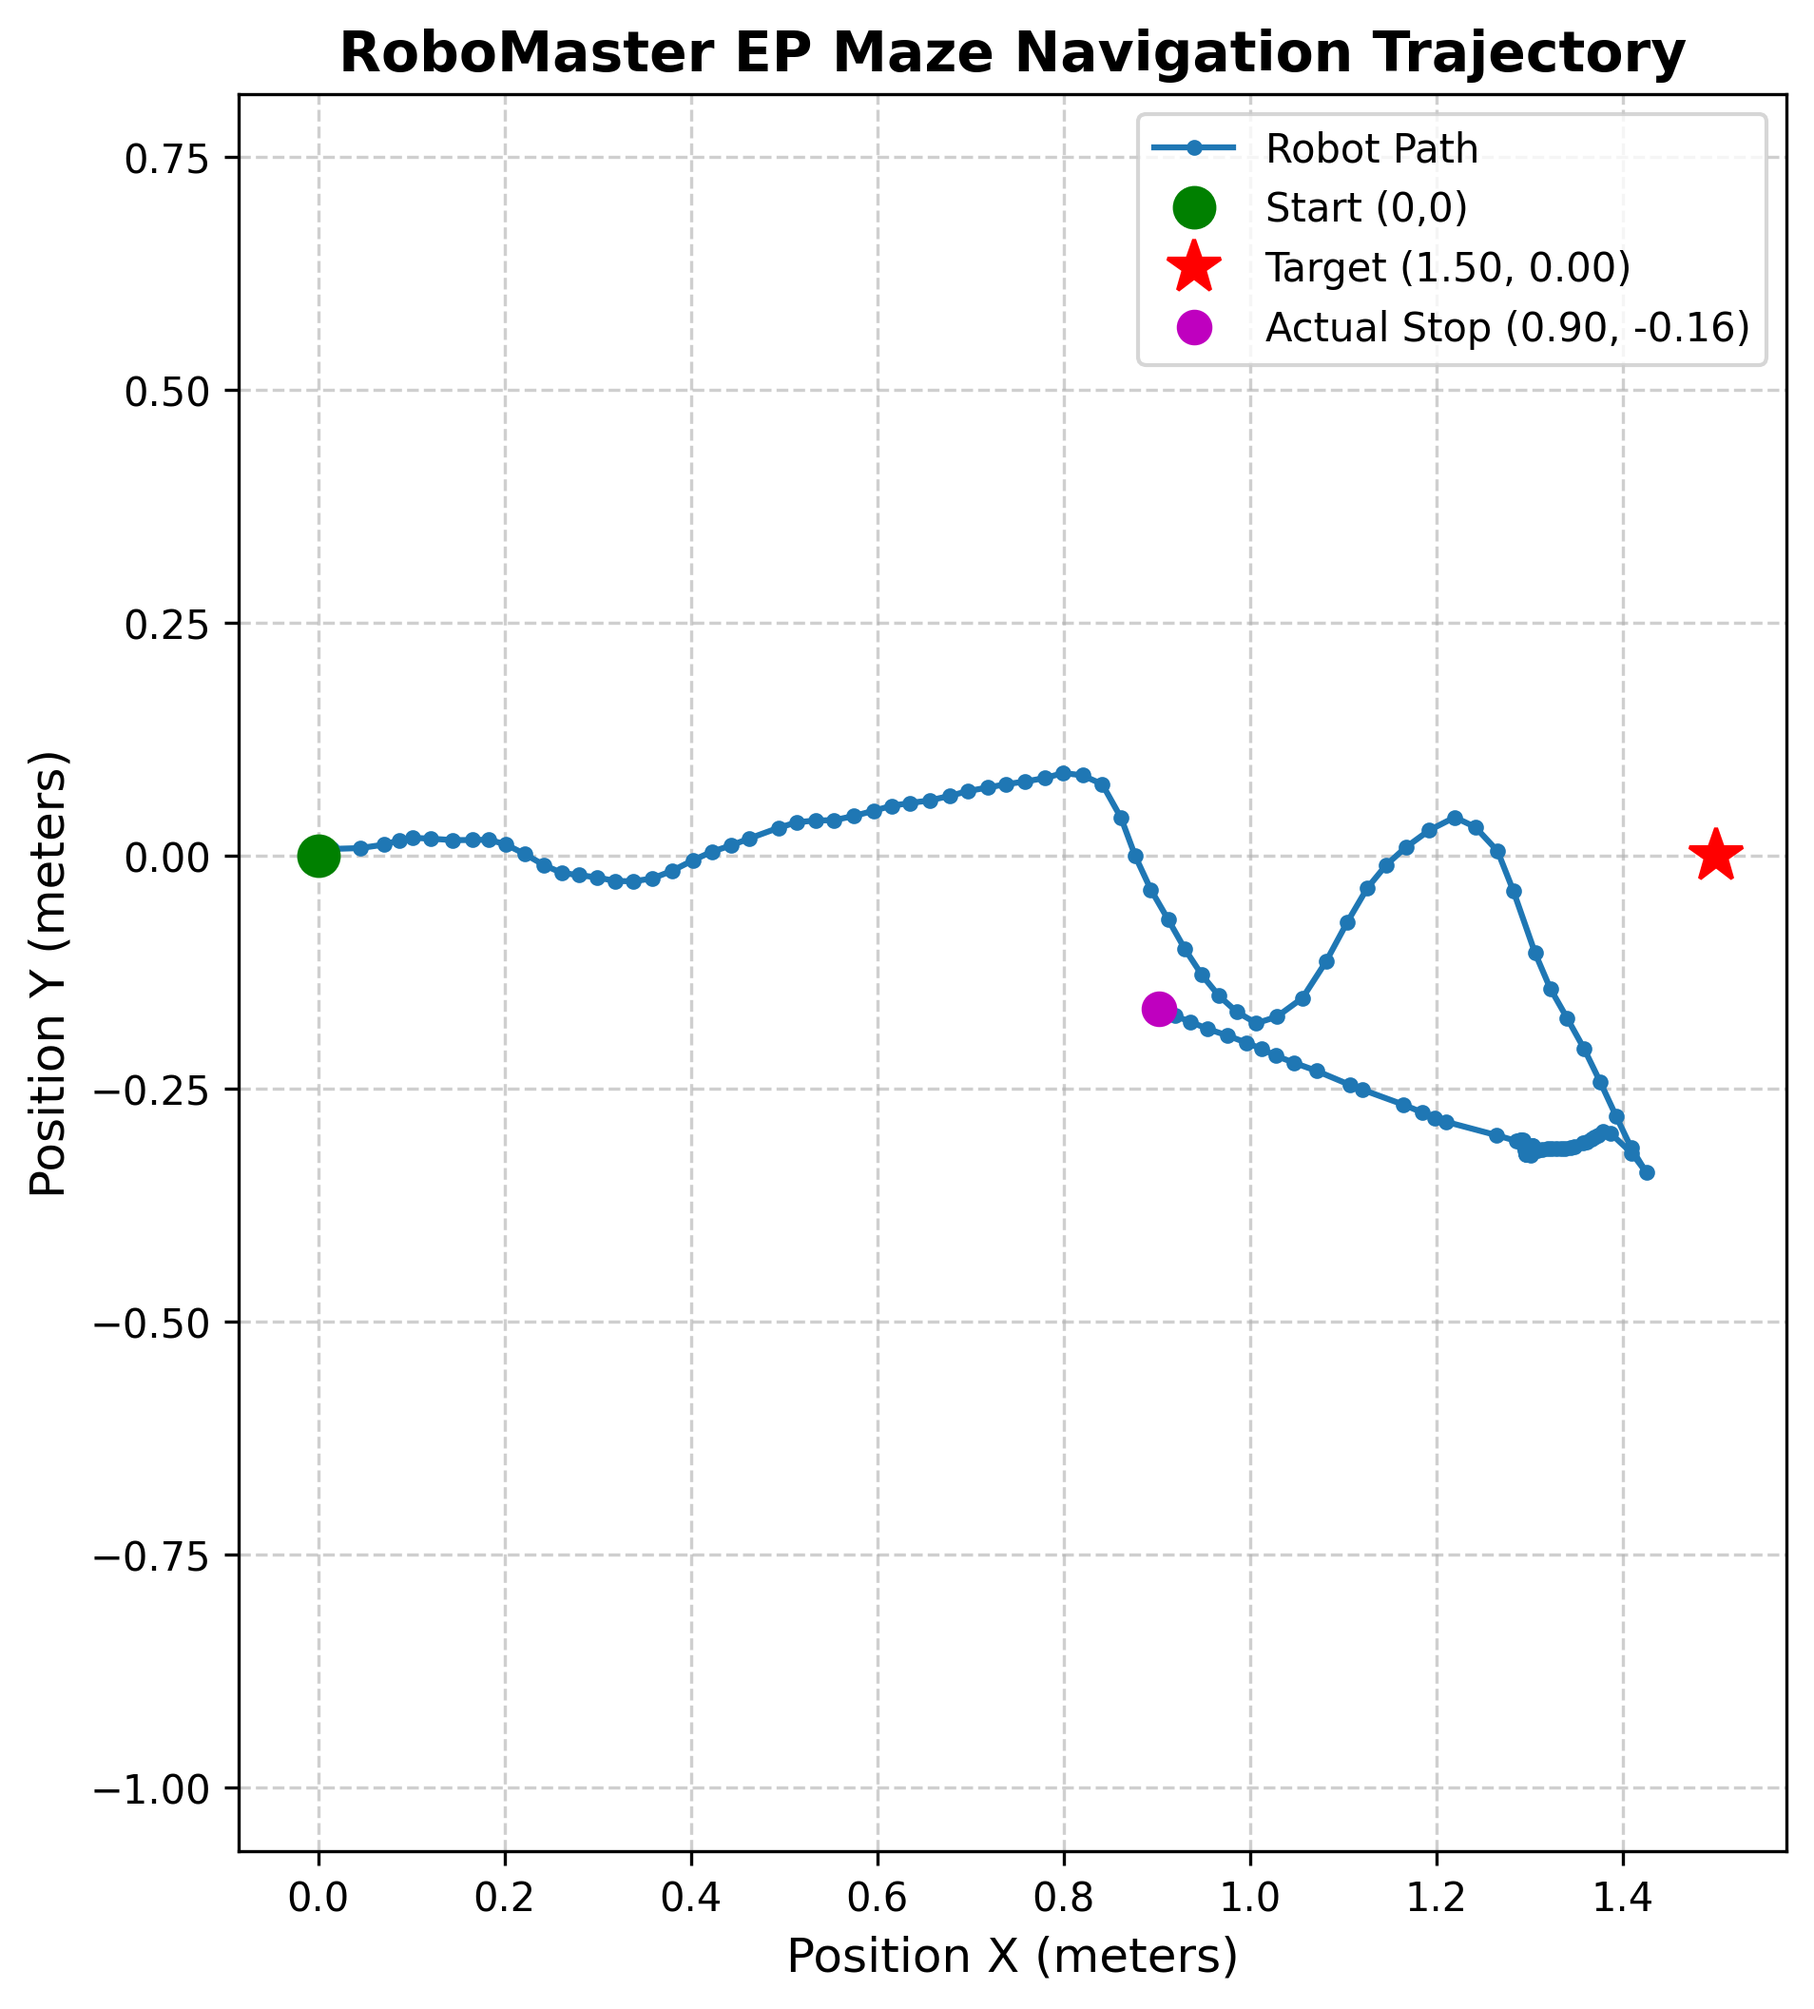
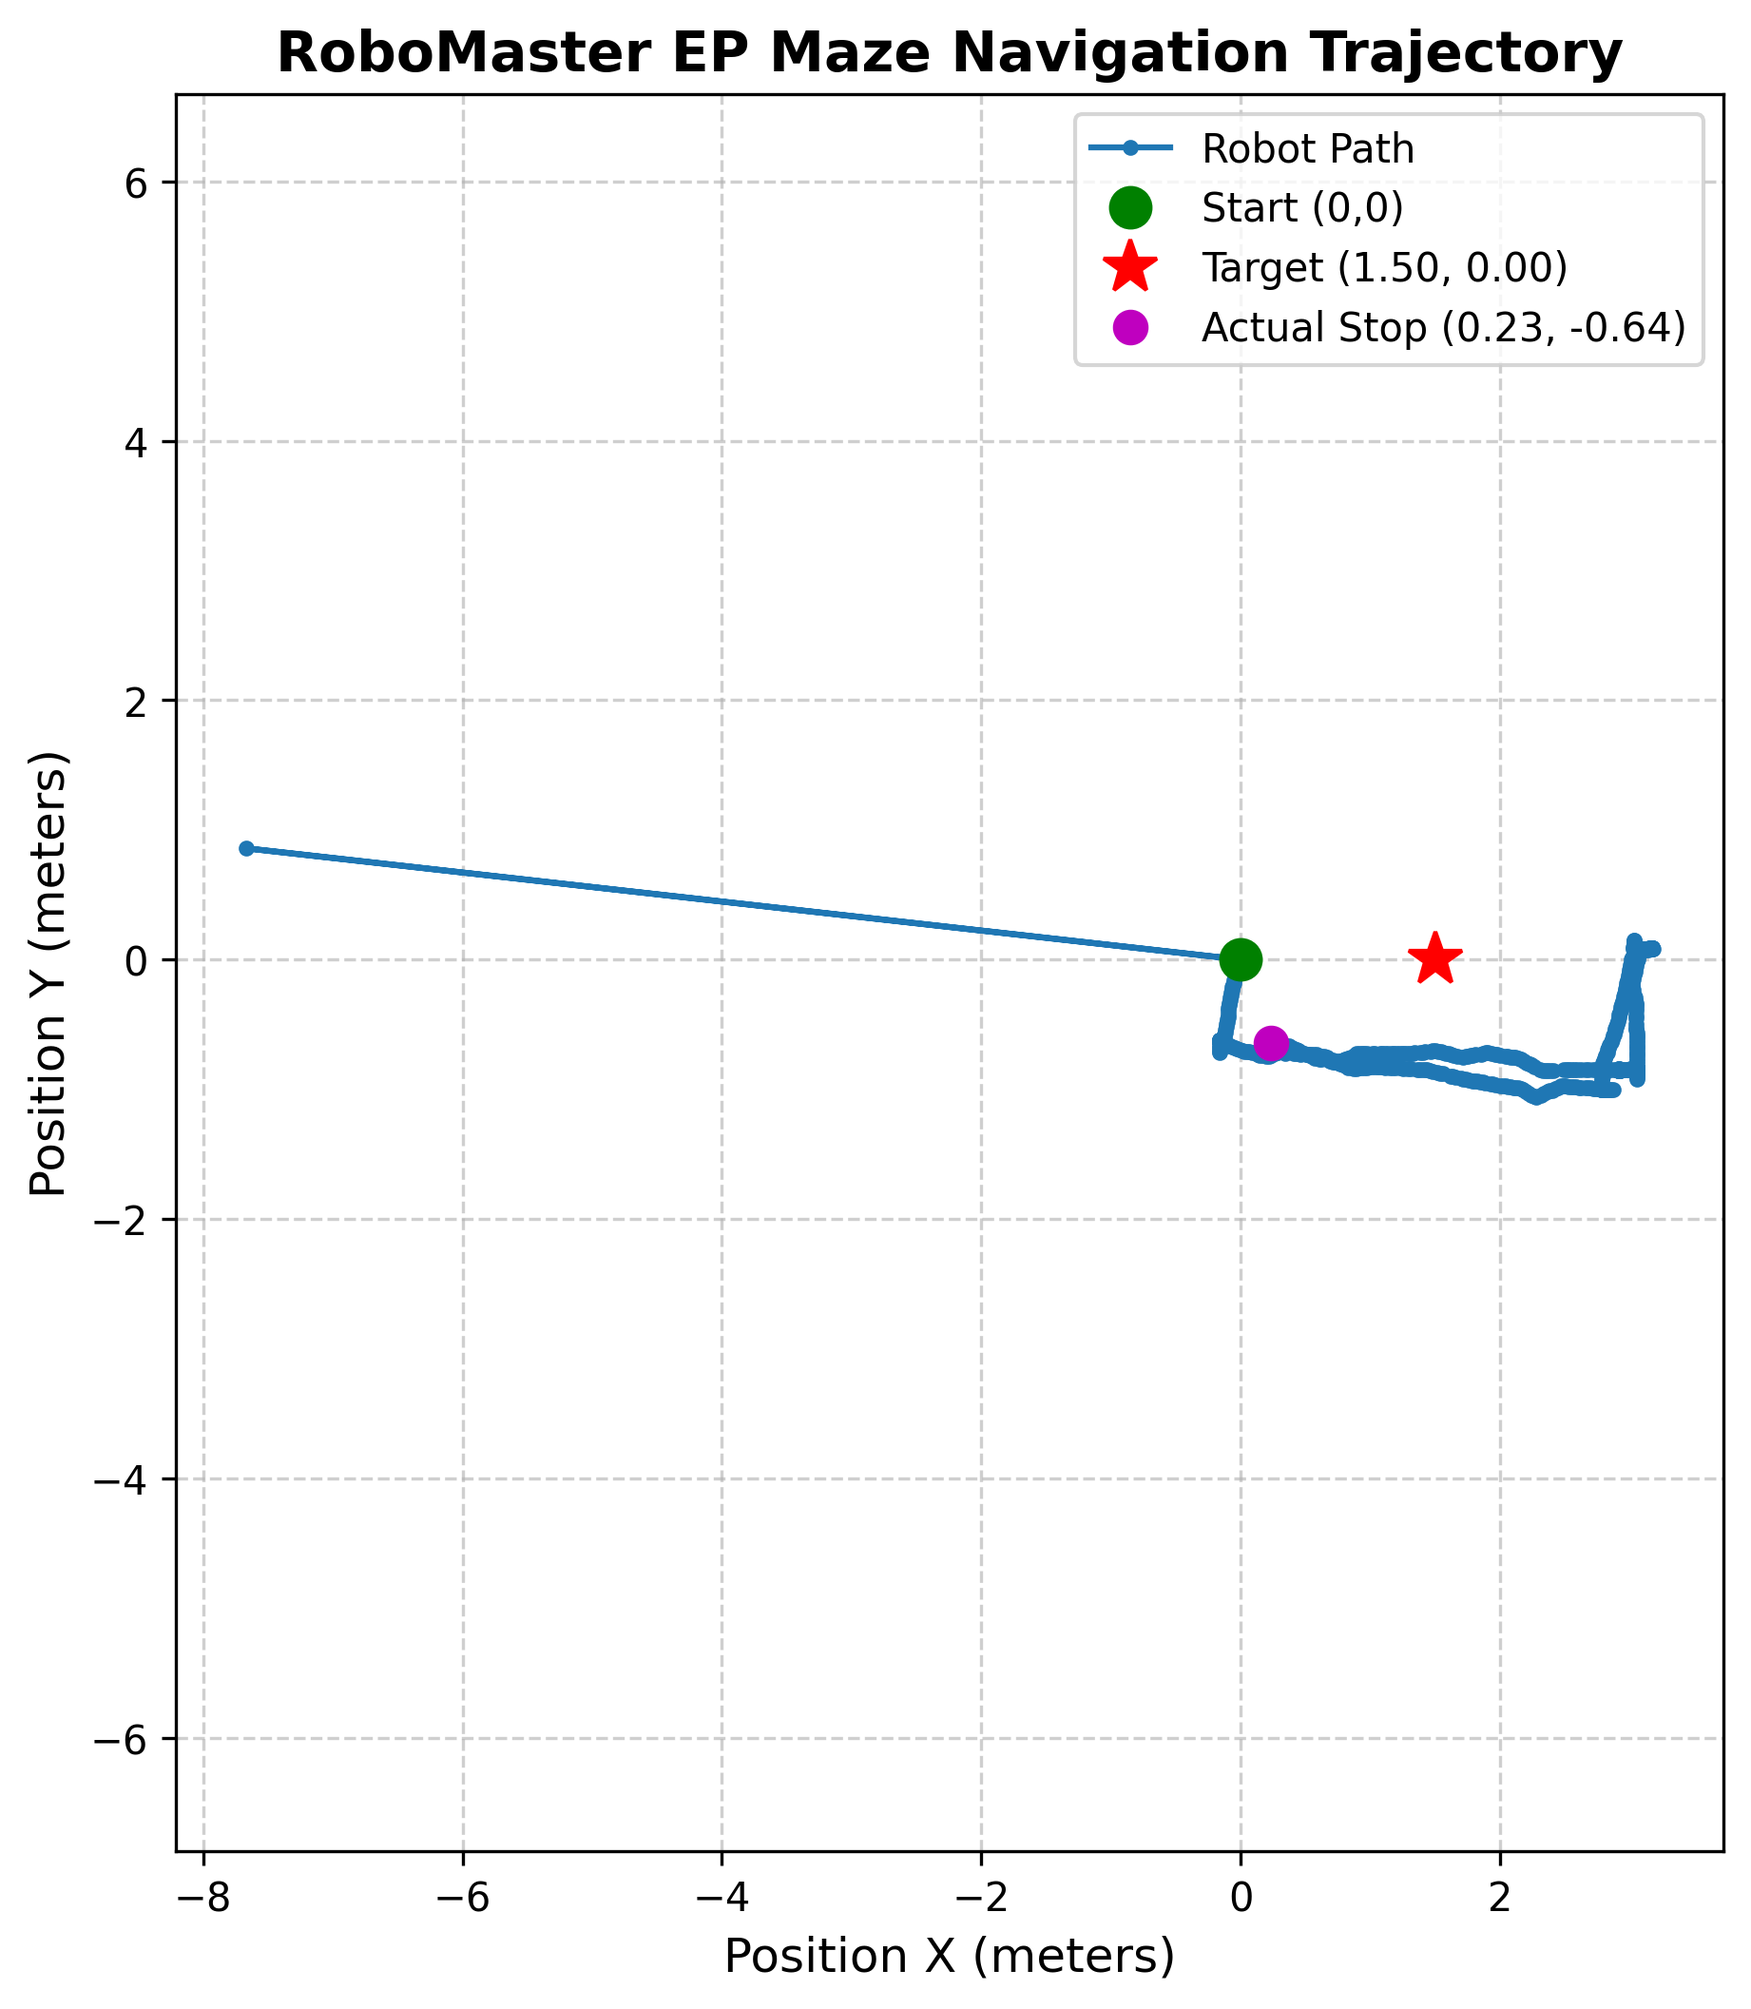
update all file

diff --git a/Robomaster_Maze_Project/maze_logic.py b/Robomaster_Maze_Project/maze_logic.py
@@ -34,7 +34,7 @@ class MazeSolver:
 
         # เกณฑ์ระยะทางสำหรับเซนเซอร์
         self.WALL_THRESHOLD_CM = 25.0  # ระยะที่ถือว่ามีกำแพงอยู่ข้างๆ
-        self.FRONT_LIMIT_CM = 30.0     # ระยะเบรกกำแพงด้านหน้า (cm) (เพิ่มระยะเบรกให้ไกลขึ้น)
+        self.FRONT_LIMIT_CM = 25.0     # ระยะเบรกกำแพงด้านหน้า (cm) (เพิ่มระยะเบรกให้ไกลขึ้น)
         self.MOVE_SPEED = 0.20         # ความเร็วเดินหน้า (ลดลงเพื่อไม่ให้ชนก่อนเซนเซอร์อ่านทัน)
 
     def is_target_reached(self, current_x: float, current_y: float, front_tof: float) -> bool:
@@ -92,19 +92,10 @@ class MazeSolver:
         # ตรรกะตัดสินใจเดินเขาวงกตด้วยกฎมือขวา (Right-Hand Rule)
         # --------------------------------------------------------------------
         
-        can_move_forward = front_tof > self.FRONT_LIMIT_CM
-
-        # เงื่อนไข A: ทางขวาว่าง (ไม่มีกำแพงขวา: sharp_right > 25 cm) -> ให้ความสำคัญกับการเลี้ยว/สไลด์ขวาก่อน
+        # 1. เช็คด้านขวา ถ้าขวาว่างให้เลี้ยวขวา (กรณีที่เซนเซอร์มองเห็นทางแยกทันที)
         if sharp_right > self.WALL_THRESHOLD_CM:
-            # *** เงื่อนไขสำคัญมาก *** : จะเลี้ยว/สไลด์เข้าทางแยกขวาได้ต่อเมื่อ IR หลังขวาส่งค่า 0 (พ้นกำแพงขวาแล้ว) 
-            # หรือถ้าข้างหน้าตัน (เดินต่อไม่ได้แล้ว) ให้ทำการสไลด์เลี้ยวขวาเลย
-            if rear_ir_r == 0 or not can_move_forward:
-                print("[MazeSolver] พบทางแยกขวาเปิด (ท้ายพ้นกำแพง หรือ หน้าตัน) -> สไลด์เลี้ยวขวา")
-                robot_controller.stop()
-                robot_controller.strafe_right(speed=0.35, distance=0.30)
-            else:
-                print("[MazeSolver] พบทางขวาว่าง แต่ท้ายยังไม่พ้นกำแพง (IR หลังขวา != 0) -> ขยับเดินหน้าต่ออีกนิด")
             print("[MazeSolver] พบทางแยกขวาเปิดจากเซนเซอร์ด้านข้าง -> เลี้ยวขวา")
+            robot_controller.stop()
             robot_controller.turn_right_90()
             robot_controller.move_forward_distance(0.2)
             
@@ -136,7 +127,7 @@ class MazeSolver:
                 return self.STATE_NAVIGATING
                 
             # --- สเตป 3: ทางตันทุกด้าน (Dead End) ---
-            print(" -> ซ้ายก็ตัน! เป็นทางตัน (Dead End) หมุนขวา 90 องศาเพื่อกลับหลังหัน")
-            robot_controller.turn_right_90()
+            print(" -> ซ้ายก็ตัน! เป็นทางตัน (Dead End) หมุนซ้าย 90 องศาเพื่อกลับหลังหัน")
+            robot_controller.turn_left_90()
             
         return self.STATE_NAVIGATING

diff --git a/Robomaster_Maze_Project/chassis_control.py b/Robomaster_Maze_Project/chassis_control.py
@@ -39,7 +39,7 @@ class RobotController:
         self._last_error = 0.0
         self._integral = 0.0
         self._last_time = time.time()
-        self._target_gap = 10.0  # ระยะเป้าหมายจากกำแพงแต่ละฝั่ง (cm)
+        self._target_gap = 15.0  # ระยะเป้าหมายจากกำแพงแต่ละฝั่ง (เพิ่มเป็น 15cm ไม่ให้ชิดซ้าย/ขวาเกินไป)
 
         # ข้อมูลการติดตามเส้นทาง (Odometry Trajectory Tracking)
         self._trajectory_lock = threading.Lock()
@@ -112,8 +112,12 @@ class RobotController:
             error = 0.0
             self._integral = 0.0
 
-        # คำนวณ P, I, D Components
-        p_term = self.kp * error
+        # เพิ่ม Deadband: ถ้าระยะคลาดเคลื่อนไม่เกิน 3 cm ถือว่าหุ่นอยู่ตรงกลางแล้ว ไม่ต้องขยับแกว่งซ้ายขวา
+        if abs(error) < 3.0:
+            error = 0.0
+
+        # คำนวณ P, I, D Components (ปรับลด kp ลงในโค้ดคำนวณเลยเพื่อให้แก้ศูนย์นิ่มนวลขึ้น)
+        p_term = (self.kp * 0.25) * error  # ลดความไว (kp) ลง 4 เท่า ป้องกันอาการส่ายเป็นงู
         self._integral += error * dt
         # Clamp integral เพื่อป้องกัน Integral Windup
         self._integral = max(-5.0, min(5.0, self._integral))
@@ -128,8 +132,9 @@ class RobotController:
         # รวมผลลัพธ์ Vy (ความเร็วสไลด์ซ้าย-ขวา)
         vy = p_term + i_term + d_term
 
-        # จำกัดความเร็วสไลด์ให้อยู่ในช่วงที่ปลอดภัย (-0.35 ถึง +0.35 m/s)
-        vy = max(-0.35, min(0.35, vy))
+        # จำกัดความเร็วสไลด์ให้อยู่ในช่วงที่พอดี (-0.15 ถึง +0.15 m/s)
+        # ถ้าตั้งน้อยไป (0.08) หุ่นจะสู้แรงไถลธรรมชาติไม่ได้ ทำให้เป๋เข้ากำแพง
+        vy = max(-0.15, min(0.15, vy))
         return vy
 
     # ------------------------------------------------------------------------
